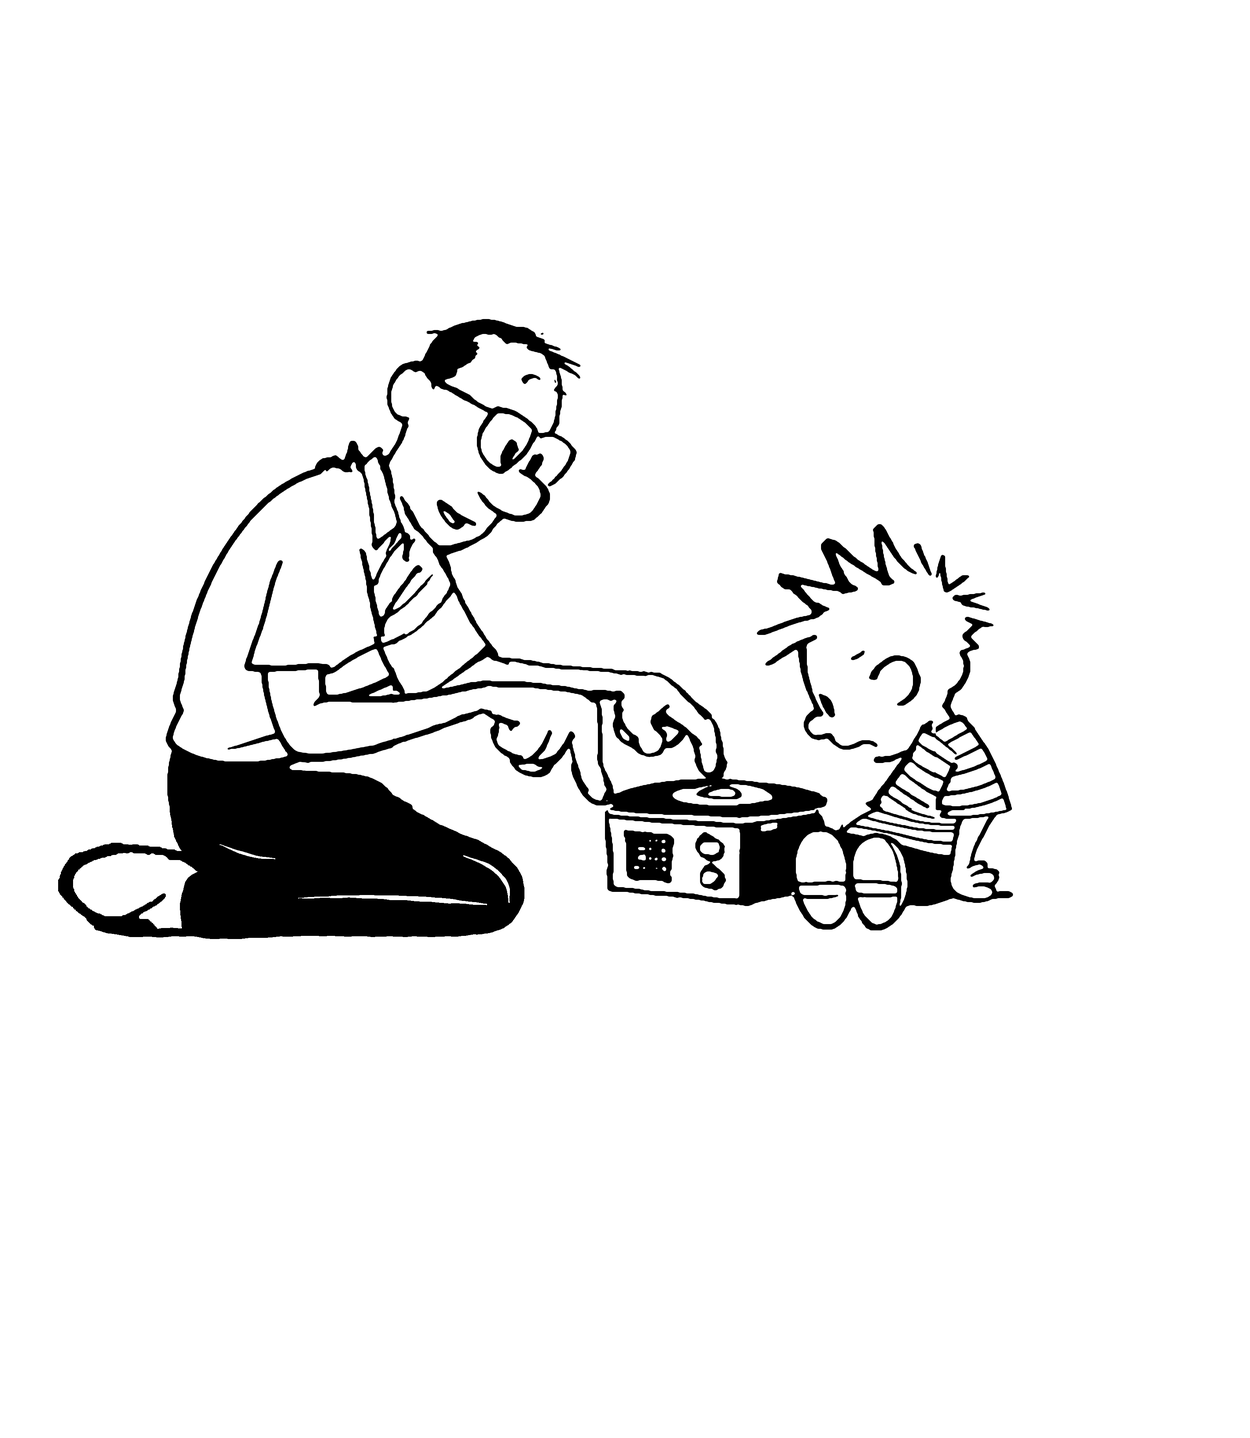
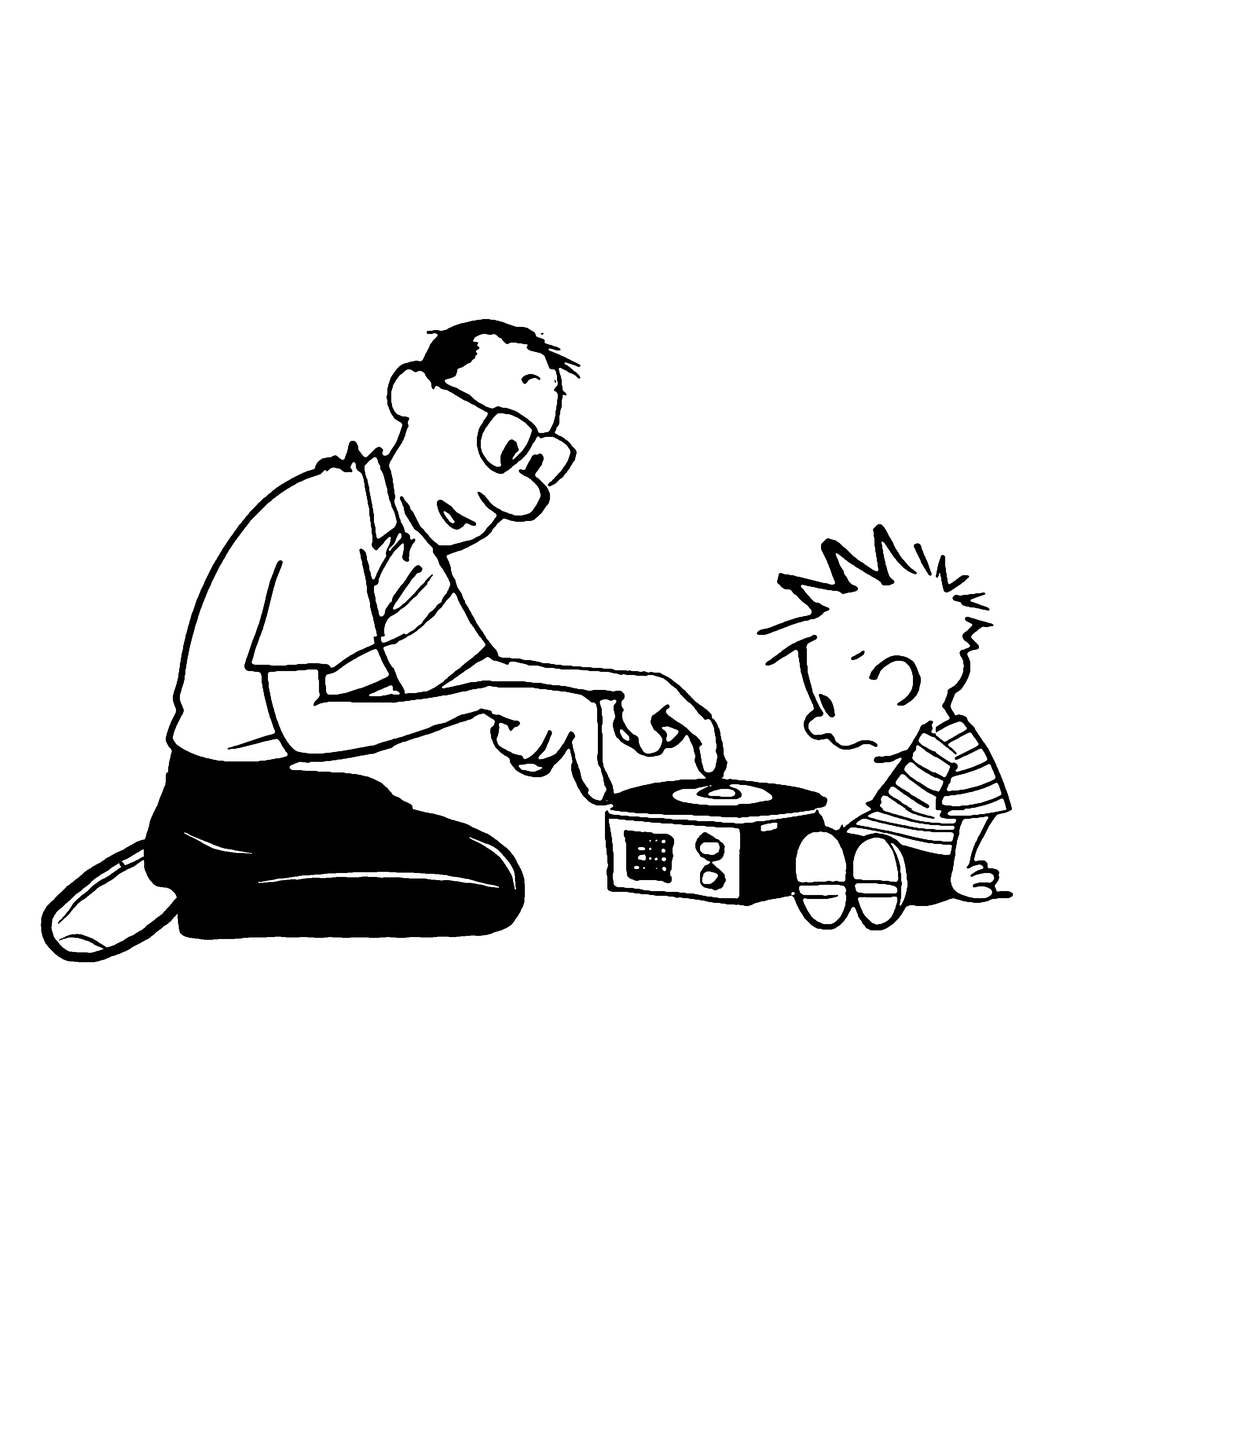
Address panel 2 and 3 feedback: seat, knee, shins, arm, hand, Calvin
Panel 2: Dad's seat now rounds out behind him over his heels instead of
running straight down from his shirt (which made his waist look skinny),
the knee is one smooth round, the shin under the thigh is thicker, and
his trailing shoe is the same shoe as panel 3's, seen side on.

Panel 3: his legs follow panel 1's proportions (legs about 3.4 head
widths), so his hip sits higher above the floor, which he meets lower in
the panel than Calvin as he is nearer us; the thigh is shorter for the
three-quarter view. The near sleeve is a plain loose short sleeve like
his sleeves in panels 1 and 2, the arm drops to a definite elbow and the
forearm is longer, and the resting hand lies along the thigh.

Calvin in panel 3 is now his whole figure from panel 1, head and body
together; mirroring only his body had detached his head and mismatched
their sizes.

Changed region(s): [[0.0311, 0.5607, 0.1556, 0.6852], [0.28, 0.5607, 0.4356, 0.6541]]

diff --git a/panels.html b/panels.html
@@ -8,12 +8,12 @@
 <p class="details">2834 × 2066 pixels · original-crop agreement: 100% · <a href="assets/full-panels/panel1.png?v=b03ae498a9" download="panel1.png">Download PNG</a> · <a href="assets/full-panels/panel1.png?v=b03ae498a9" target="_blank" rel="noopener">Open full size</a></p>
 <label><input class="show-source" type="checkbox"> Show original crop overlay</label>
 <div class="scroll"><div class="stage" style="--native-width:2834px"><img class="complete" src="assets/full-panels/panel1.png?v=b03ae498a9" width="2834" height="2066" alt="Completed comic panel 1 without dialogue" loading="lazy"><img class="source" src="assets/full-panels/original1.png" style="left:14.114326040931546%;top:0.0%;width:57.657021877205366%" width="1634" height="2066" alt="Original crop of panel 1" hidden></div></div></section><section id="panel-2"><h2>Panel 2</h2><p>Dad points to the record, sitting back on his heels. His trousers are drawn in code (drawn_legs.py); the trailing shoe is panel 1's planted shoe turned sole up. The player uses the grille and knobs from panel 1.</p>
-<p class="details">3182 × 3660 pixels · original-crop agreement: 99.251% · <a href="assets/full-panels/panel2.png?v=f43d609ae7" download="panel2.png">Download PNG</a> · <a href="assets/full-panels/panel2.png?v=f43d609ae7" target="_blank" rel="noopener">Open full size</a></p>
+<p class="details">3182 × 3660 pixels · original-crop agreement: 99.251% · <a href="assets/full-panels/panel2.png?v=4a33fd94bb" download="panel2.png">Download PNG</a> · <a href="assets/full-panels/panel2.png?v=4a33fd94bb" target="_blank" rel="noopener">Open full size</a></p>
 <label><input class="show-source" type="checkbox"> Show original crop overlay</label>
-<div class="scroll"><div class="stage" style="--native-width:3182px"><img class="complete" src="assets/full-panels/panel2.png?v=f43d609ae7" width="3182" height="3660" alt="Completed comic panel 2 without dialogue" loading="lazy"><img class="source" src="assets/full-panels/original2.png" style="left:25.1414204902577%;top:0.0%;width:49.7171590194846%" width="1582" height="2060" alt="Original crop of panel 2" hidden></div></div></section><section id="panel-3"><h2>Panel 3</h2><p>Dad rests his hand on his thigh. Everything of him outside the scanned crop is drawn in code (drawn_legs.py); the resting hand is his scanned gesturing hand turned palm down. Calvin looks up at Dad with his feet still toward the player. His figure and the player come from panel 1, enlarged by 56% for this closer view.</p>
-<p class="details">3174 × 3660 pixels · original-crop agreement: 100% · <a href="assets/full-panels/panel3.png?v=e04a8ea2f8" download="panel3.png">Download PNG</a> · <a href="assets/full-panels/panel3.png?v=e04a8ea2f8" target="_blank" rel="noopener">Open full size</a></p>
+<div class="scroll"><div class="stage" style="--native-width:3182px"><img class="complete" src="assets/full-panels/panel2.png?v=4a33fd94bb" width="3182" height="3660" alt="Completed comic panel 2 without dialogue" loading="lazy"><img class="source" src="assets/full-panels/original2.png" style="left:25.1414204902577%;top:0.0%;width:49.7171590194846%" width="1582" height="2060" alt="Original crop of panel 2" hidden></div></div></section><section id="panel-3"><h2>Panel 3</h2><p>Dad rests his hand on his thigh. Everything of him outside the scanned crop is drawn in code (drawn_legs.py); the resting hand is his scanned gesturing hand turned palm down. Calvin looks up at Dad with his feet still toward the player. His figure and the player come from panel 1, enlarged by 56% for this closer view.</p>
+<p class="details">3174 × 3660 pixels · original-crop agreement: 100% · <a href="assets/full-panels/panel3.png?v=d9b1590dc4" download="panel3.png">Download PNG</a> · <a href="assets/full-panels/panel3.png?v=d9b1590dc4" target="_blank" rel="noopener">Open full size</a></p>
 <label><input class="show-source" type="checkbox"> Show original crop overlay</label>
-<div class="scroll"><div class="stage" style="--native-width:3174px"><img class="complete" src="assets/full-panels/panel3.png?v=e04a8ea2f8" width="3174" height="3660" alt="Completed comic panel 3 without dialogue" loading="lazy"><img class="source" src="assets/full-panels/original3.png" style="left:25.20478890989288%;top:0.0%;width:49.59042218021424%" width="1574" height="2060" alt="Original crop of panel 3" hidden></div></div></section><section id="panel-4"><h2>Panel 4</h2><p>Original night scene with the existing completed left side of the bed.</p>
+<div class="scroll"><div class="stage" style="--native-width:3174px"><img class="complete" src="assets/full-panels/panel3.png?v=d9b1590dc4" width="3174" height="3660" alt="Completed comic panel 3 without dialogue" loading="lazy"><img class="source" src="assets/full-panels/original3.png" style="left:25.20478890989288%;top:0.0%;width:49.59042218021424%" width="1574" height="2060" alt="Original crop of panel 3" hidden></div></div></section><section id="panel-4"><h2>Panel 4</h2><p>Original night scene with the existing completed left side of the bed.</p>
 <p class="details">2368 × 2042 pixels · original-crop agreement: 100% · <a href="assets/full-panels/panel4.png?v=4821633204" download="panel4.png">Download PNG</a> · <a href="assets/full-panels/panel4.png?v=4821633204" target="_blank" rel="noopener">Open full size</a></p>
 <label><input class="show-source" type="checkbox"> Show original crop overlay</label>
 <div class="scroll"><div class="stage" style="--native-width:2368px"><img class="complete" src="assets/full-panels/panel4.png?v=4821633204" width="2368" height="2042" alt="Completed comic panel 4 without dialogue" loading="lazy"><img class="source" src="assets/full-panels/original4.png" style="left:16.89189189189189%;top:0.0%;width:66.21621621621621%" width="1568" height="2042" alt="Original crop of panel 4" hidden></div></div></section><footer><p>The source comparisons use the cleaned, smoothed artwork extracted from page 247, with lettering and balloons removed. Panel 4’s signature remains a separate asset. Agreement percentages count every pixel in the original crop, including white background; panel 2 includes the earlier elbow repair. Panel 3 preserves every original ink pixel and directly reuses the original seated Calvin and record player.</p><p><a href="assets/full-panels/verification.json">Pixel comparison results</a> · <a href="assets/full-panels/provenance.json">Artwork sources and rebuild steps</a></p></footer></main>

diff --git a/tools/extensions/reconstruction-v2/drawn_legs.py b/tools/extensions/reconstruction-v2/drawn_legs.py
@@ -93,33 +93,31 @@ PANEL2_SHOE_SCALE = (1.7, 1.7)
 
 
 def panel_two(image):
-    """Dad sits on his heels facing right, knee by the record player."""
+    """Dad sits back on his heels facing right, knee by the record player."""
     w, h = image.size
     ink = Ink((w, h), seed=2)
-    # His near foot lies behind him on its upper, toe back on the floor and
-    # sole turned up, heel under his seat. The far foot is hidden behind it.
-    shoe_ink, shoe_shape = panel_one_shoe(PANEL2_SHOE, PANEL2_SHOE_TURN, PANEL2_SHOE_SCALE, (w, h))
-    ink.paint(shoe_shape, 255)
-    ink.paint(shoe_ink, 0)
-    # The trousers: seat, thigh and the shin folded under it along the floor,
-    # ending in a cuff at the ankle just behind the seat. The first and last
-    # three points are the scanned silhouette's edges on the crop's last
-    # rows, so the drawing continues it without a step.
-    ink.fill([(426, 2000), (429, 2040), (432, 2058), (440, 2112), (458, 2160),
-              (488, 2196), (504, 2214), (478, 2236), (462, 2280), (460, 2336),
-              (474, 2376), (800, 2382), (1000, 2384), (1200, 2380), (1282, 2362),
-              (1326, 2312), (1334, 2252), (1306, 2196), (1240, 2150), (1150, 2112),
-              (1090, 2082), (1051, 2058), (1033, 2040), (980, 2000), (700, 1990)],
-             wobble=1.2)
-    # Folds: where the thigh lies on the calf, and round the knee.
-    ink.stroke([(1238, 2302), (1100, 2290), (900, 2282), (760, 2286)],
-               [3, 13, 11, 6, 2], colour=255, wobble=0.8)
-    ink.stroke([(1180, 2178), (1250, 2208), (1290, 2252), (1296, 2296)],
-               [2, 9, 11, 3], colour=255, wobble=0.6)
-    ink.stroke([(560, 2150), (640, 2178), (700, 2186)],
-               [2, 8, 2], colour=255, wobble=0.6)
+    # His near foot trails behind him, toe on the floor and heel up under his
+    # seat, the sole turned back: the same shoe as in panel 3, seen side on.
+    shoe(ink, heel=(446, 2196), angle=146, scale=0.95, flip=True, foreshorten=0.78)
+    # The trousers. His seat rounds out behind him over his heels; the
+    # thigh runs forward to one round knee on the floor; the shin lies under
+    # it, back to the ankle under his seat. The top edge continues the
+    # scanned silhouette (the last points) and the hem of his shirt.
+    ink.fill([(428, 1962), (420, 2000), (400, 2048), (378, 2104), (366, 2160),
+              (370, 2214), (392, 2252), (432, 2262), (452, 2290), (452, 2340),
+              (466, 2380), (700, 2385), (1000, 2386), (1180, 2383), (1252, 2376),
+              (1302, 2352), (1330, 2308), (1336, 2252), (1318, 2196), (1280, 2150),
+              (1215, 2110), (1140, 2082), (1090, 2068), (1051, 2058), (1033, 2040),
+              (980, 2000), (720, 1990), (720, 1962)], wobble=1.2)
+    # Folds: where the thigh lies on the shin, the back of the knee and the seat.
+    ink.stroke([(1268, 2258), (1150, 2236), (960, 2226), (780, 2232), (660, 2246)],
+               [3, 14, 13, 9, 3], colour=255, wobble=0.8)
+    ink.stroke([(1196, 2132), (1262, 2166), (1302, 2216), (1312, 2262)],
+               [2, 10, 11, 3], colour=255, wobble=0.6)
+    ink.stroke([(470, 2120), (560, 2160), (640, 2172)],
+               [2, 9, 2], colour=255, wobble=0.6)
     yy, xx = np.mgrid[:h, :w]
-    region = (yy >= 2060) & (xx < 1540)
+    region = ((yy >= 2060) & (xx < 1540)) | ((yy >= 1966) & (xx < 700))
     return composite(thin_underarm(image), ink.mask(), region)
 
 
@@ -132,7 +130,9 @@ def outlined(ink, points, width=OUTLINE + 2):
 # The scanned gesturing hand in panel 3: its bounding box and the wrist, where
 # the two lines of the forearm reach the thumb (A) and the palm (B).
 SCAN_HAND_BOX = (1585, 1770, 2200, 2080)
-SCAN_WRIST = ((1745, 1950), (1875, 2005))
+SCAN_WRIST = ((1792, 1960), (1875, 2007))
+# Where the thumb joins the palm: up from the wrist's thumb end to the palm's top.
+SCAN_THUMB_BASE = ((1838, 1860), (1846, 1770))
 
 
 def transplant(source, keep, closing, pivot, target, angle, flip=False,
@@ -178,23 +178,32 @@ def transplant(source, keep, closing, pivot, target, angle, flip=False,
     return out[0], out[1], lambda point: tuple(forward @ (np.asarray(point) - pivot) + target)
 
 
-def resting_hand(image, target, angle):
+def resting_hand(image, target, angle, scale=1.0):
     """Panel 3's scanned open hand, turned palm down to rest on the thigh.
 
     The hand is flipped top to bottom about its wrist, which turns the palm
-    over and puts the thumb on the near side, then tilted by `angle` degrees
-    so the fingers follow the thigh down towards the knee, with the wrist's
-    midpoint at `target`. Returns the hand's ink and silhouette, and where
+    over, then tilted by `angle` degrees so the fingers lie along the thigh
+    towards the knee, with the wrist's midpoint at `target`. Its thumb is
+    left out: on a hand resting palm down it lies along the inside of the
+    thigh, out of sight. Returns the hand's ink and silhouette, and where
     the wrist's thumb and palm ends land.
     """
     x0, y0, x1, y1 = SCAN_HAND_BOX
     a, b = SCAN_WRIST
-    # Only the hand: the side of the wrist away from the elbow.
-    keep = [(x0, y0), (x1, y0), (x1, y1), (b[0] + 80, b[1] + 60), b, a, (x0, a[1])]
+    c, d = SCAN_THUMB_BASE
+    # The hand without its thumb: right of the thumb's base (cut a little
+    # inside it, clear of the thumb's own outline), beyond the wrist.
+    a = (a[0] + 14, a[1] + 4)
+    c, d = (c[0] + 10, c[1]), (d[0] + 10, d[1])
+    keep = [c, d, (x1, y0), (x1, y1), (b[0] + 80, b[1] + 60), b, a]
     middle = ((a[0] + b[0]) / 2, (a[1] + b[1]) / 2)
-    ink, shape, move = transplant(image, keep, [(a, b)], middle, target, angle,
-                                  flip=True, size=image.size)
-    return ink, shape, move(a), move(b)
+    ink, shape, move = transplant(image, keep, [(a, b), (a, c)], middle, target,
+                                  angle, flip=True, scale=(scale, scale), size=image.size)
+    # Ink the side of the hand where the thumb was cut away.
+    edge = Ink(image.size, seed=6)
+    edge.stroke([move(a), move(((a[0] + c[0]) / 2, (a[1] + c[1]) / 2)), move(c)],
+                [20, 22, 20])
+    return ink | edge.mask(), shape, move(a), move(b)
 
 
 # Dad's planted back shoe in panel 1, in side view, in the coordinates of
@@ -222,8 +231,9 @@ def panel_one_shoe(target, angle, scale, size):
     return ink | edge.mask(), shape
 
 
-HAND_WRIST = (975, 2648)
-HAND_TILT = 24
+HAND_WRIST = (1000, 2700)
+HAND_TILT = 28
+HAND_SCALE = 0.95
 
 
 def panel_three(image):
@@ -240,21 +250,23 @@ def panel_three(image):
     ink = Ink((w, h), seed=3)
     # The near foot trails behind him, toe on the floor and its sole turned
     # back towards the left, so we see it foreshortened under his seat.
-    shoe(ink, heel=(612, 2846), angle=124, scale=1.08, flip=True, foreshorten=0.6)
+    shoe(ink, heel=(610, 2980), angle=124, scale=1.08, flip=True, foreshorten=0.6)
     # The seat, the thigh running towards us to the knee and the shin folded
     # back under it to the cuff.
-    ink.fill([(458, 2580), (446, 2642), (457, 2700), (456, 2740), (456, 2780),
-              (466, 2820), (488, 2860), (528, 2896), (590, 2924), (640, 2944),
-              (628, 2980), (668, 3030), (720, 3070), (800, 3104), (900, 3126),
-              (1050, 3134), (1200, 3132), (1317, 3120), (1357, 3100), (1394, 3060),
-              (1416, 3020), (1429, 2980), (1436, 2940), (1430, 2900), (1412, 2860),
-              (1376, 2806), (1310, 2748), (1220, 2700), (1120, 2660), (900, 2660),
-              (600, 2640)], wobble=1.2)
-    ink.stroke([(1318, 3082), (1160, 3060), (960, 3024), (780, 2986)],
+    # Panel 1 makes his legs about 3.4 head widths long, so on his heels his
+    # hip is about a head width above the floor. He is nearer us than Calvin,
+    # so he meets the floor lower in the panel than Calvin does.
+    ink.fill([(458, 2580), (446, 2642), (457, 2700), (452, 2780), (450, 2860),
+              (462, 2940), (490, 3010), (540, 3062), (590, 3104), (650, 3160),
+              (730, 3210), (830, 3250), (950, 3276), (1080, 3286), (1170, 3280),
+              (1240, 3250), (1286, 3196), (1302, 3122), (1292, 3042), (1258, 2966),
+              (1196, 2896), (1120, 2830), (1040, 2774), (960, 2728), (880, 2702),
+              (700, 2690), (600, 2650)], wobble=1.2)
+    ink.stroke([(1206, 3232), (1060, 3196), (890, 3146), (760, 3104)],
                [3, 14, 12, 6, 2], colour=255, wobble=0.8)
-    ink.stroke([(1262, 2884), (1336, 2910), (1384, 2956), (1398, 3002)],
+    ink.stroke([(1150, 2952), (1226, 3000), (1266, 3070), (1276, 3130)],
                [2, 10, 11, 3], colour=255, wobble=0.6)
-    ink.stroke([(560, 2800), (640, 2836), (720, 2850)],
+    ink.stroke([(560, 2810), (640, 2846), (720, 2860)],
                [2, 9, 2], colour=255, wobble=0.6)
 
     # The shirt, hanging loose over the trousers. Its back runs on from the
@@ -264,12 +276,12 @@ def panel_three(image):
             (610, 2095), (562, 2210), (530, 2310), (508, 2400), (494, 2490),
             (470, 2570), (452, 2632), (462, 2672)]
     hem = [(452, 2640), (474, 2684), (522, 2718), (592, 2742), (690, 2754),
-           (800, 2748), (900, 2728), (980, 2700)]
+           (800, 2748), (900, 2740), (1000, 2748), (1090, 2760)]
     far_side = [(1217, 2000), (1210, 2059), (1190, 2105), (1150, 2165),
                 (1105, 2235), (1068, 2310), (1046, 2390), (1042, 2470),
-                (1050, 2560), (1068, 2650)]
+                (1050, 2560), (1066, 2660), (1086, 2756)]
     # White grounds first, so no fill covers another part's line.
-    ink.fill(back + hem[1:] + [(1070, 2660)] + far_side[::-1] + [(1100, 1700)],
+    ink.fill(back + hem[1:] + [(1086, 2756)] + far_side[::-1] + [(1100, 1700)],
              colour=255, wobble=0)
     ink.fill([(1200, 2110), (1250, 2242), (1330, 2282), (1480, 2334), (1570, 2300),
               (1799, 2059), (1680, 2059), (1500, 2192), (1452, 2100), (1419, 2059),
@@ -303,21 +315,22 @@ def panel_three(image):
                 (1572, 2298), (1640, 2234), (1722, 2148), (1799, 2059), (1846, 2005)],
                [18, 20, 21, 22, 22, 21, 22, 23])
 
-    # The near sleeve, rolled into a cuff above the elbow.
-    ink.stroke([(794, 1930), (772, 2000), (752, 2090)], [3, 16, 18])
-    ink.stroke([(953, 2000), (942, 2059), (936, 2094)], [20, 20, 18])
-    outlined(ink, [(708, 2094), (830, 2080), (948, 2098), (966, 2150), (958, 2206),
-                   (850, 2194), (706, 2192), (698, 2142)])
-    ink.stroke([(716, 2150), (830, 2142), (956, 2160)], [3, 11, 10, 3])
-    # The near arm hangs from the cuff, bends a little at the elbow and
-    # reaches forward to the thigh.
-    hand_ink, hand_shape, thumb_end, palm_end = resting_hand(image, HAND_WRIST, HAND_TILT)
-    left = [(745, 2196), (738, 2300), (714, 2400), (708, 2445), (734, 2506),
-            (800, 2574), thumb_end,
-            tuple(np.add(thumb_end, np.subtract(thumb_end, (800, 2574)) * 0.3))]
-    right = [(900, 2202), (880, 2300), (864, 2380), (862, 2440), (898, 2516),
-             (950, 2570), palm_end]
+    # The near sleeve: a loose short sleeve with a plain hem, as Dad's
+    # sleeves are drawn in panels 1 and 2, ending just below where its front
+    # edge leaves the crop at x=942.
+    ink.stroke([(794, 1930), (766, 2010), (740, 2094)], [3, 16, 19])
+    ink.stroke([(953, 2000), (942, 2059), (950, 2100)], [20, 20, 19])
+    hem = [(738, 2096), (800, 2110), (880, 2114), (952, 2104)]
+    # The arm comes out of the sleeve, drops to the elbow and reaches forward
+    # along his thigh to the hand.
+    hand_ink, hand_shape, thumb_end, palm_end = resting_hand(image, HAND_WRIST, HAND_TILT, HAND_SCALE)
+    # The forearm's underside meets the wrist's thumb end, its top the palm end.
+    left = [(772, 2110), (760, 2200), (750, 2290), (752, 2362), (790, 2450),
+            (866, 2590), thumb_end]
+    right = [(912, 2112), (904, 2200), (896, 2300), (930, 2400), (978, 2520),
+             palm_end]
     ink.fill(left + right[::-1], colour=255, wobble=0)
+    ink.stroke(hem, [19, 20, 20, 18])
     # The forearm's edges go over the hand's wrist so the two join.
     edges = Ink((w, h), seed=4)
     edges.stroke(left, [19, 20, 19, 20, 18])

diff --git a/tests/test_full_panel_artwork.py b/tests/test_full_panel_artwork.py
@@ -8,6 +8,7 @@ from PIL import Image, ImageOps
 ROOT = Path(__file__).resolve().parents[1]
 OUT = ROOT / 'assets/full-panels'
 UNDERARM = (730, 1000, 1880, 1960)  # as in drawn_legs.UNDERARM
+SEAT = (700, 1966)  # drawn_legs.panel_two redraws x < 700 below y = 1966
 
 
 def test_original_overlaps_and_panel2_repair_are_preserved():
@@ -31,21 +32,22 @@ def test_original_overlaps_and_panel2_repair_are_preserved():
             x0, x1, y0, y1 = UNDERARM
             for a in (approved, actual):
                 a[y0:y1, x0 - 4 - 400:x1 + 4 - 400] = 0
+                # Dad's seat is redrawn below his shirt's hem (SEAT in the export).
+                a[SEAT[1]:, :SEAT[0] - 400] = 0
             assert np.array_equal(actual, approved)
 
 
 def test_panel3_reuses_the_scanned_child_and_player_at_closeup_scale():
     image = Image.open(OUT / 'panel3.png')
     pair = Image.open(OUT / 'reused-calvin-player.png')
-    # Check each insert away from the shoe-to-player contact which was separated.
-    for bounds, (x, y), interior, mirrored in [
-        ((6, 16, 452, 730), (2422, 2024), (25, 15, 655, 580), False),
-        ((-10, 16, 436, 730), (2422, 2024), (32, 701, 630, 1050), True),
-        ((436, 458, 828, 696), (1782, 2714), (80, 80, 510, 340), False),
+    # Calvin is used whole, exactly as drawn in panel 1, so his head and body
+    # join as Watterson drew them. Check each insert away from the shoe-to-
+    # player contact which was separated.
+    for bounds, (x, y), interior in [
+        ((6, 16, 452, 730), (2422, 2024), (25, 15, 600, 1080)),
+        ((436, 458, 828, 696), (1782, 2714), (80, 80, 510, 340)),
     ]:
         source = pair.crop(bounds)
-        if mirrored:
-            source = ImageOps.mirror(source)
         scaled = source.resize(tuple(round(v * 1.56) for v in source.size), Image.Resampling.LANCZOS)
         actual = image.crop((x, y, x + scaled.width, y + scaled.height))
         assert np.array_equal(np.asarray(actual.crop(interior)), np.asarray(scaled.crop(interior)))

diff --git a/tools/extensions/reconstruction-v2/assemble.py b/tools/extensions/reconstruction-v2/assemble.py
@@ -73,20 +73,7 @@ def scaled_inserts():
     ImageDraw.Draw(child).polygon([(231, 219), (217, 242), (216, 291),
                                    (214, 316), (210, 337), (216, 379),
                                    (432, 379), (432, 219)], fill=255)
-    # Keep the upward glance from the scan. Turn just the seated body so
-    # Calvin's shoes still point towards the player as they do in panel 2.
-    head = child.copy()
-    ImageDraw.Draw(head).polygon(
-        [(0, 213), (56, 213), (62, 212), (71, 216), (78, 219), (86, 217),
-         (99, 214), (116, 215), (123, 221), (210, 225), (228, 225),
-         (228, 380), (0, 380)], fill=255)
-    body = child.copy()
-    ImageDraw.Draw(body).polygon(
-        [(0, 0), (228, 0), (228, 228), (102, 228), (94, 224), (89, 221),
-         (80, 220), (67, 218), (58, 215), (0, 215)], fill=255)
-    seated = Image.new('L', child.size, 255)
-    seated.paste(ImageOps.mirror(body), (-7, 0))
-    child = ImageChops.darker(head, seated)
+    # Calvin exactly as Watterson drew him in panel 1: head and body together.
     player = source.crop((218, 226, 415, 349))
     ImageDraw.Draw(player).polygon([(0, 84), (5, 84), (7, 101), (0, 101)], fill=255)
     # Anchor the face to the original seated figure's box even when the toes move.
